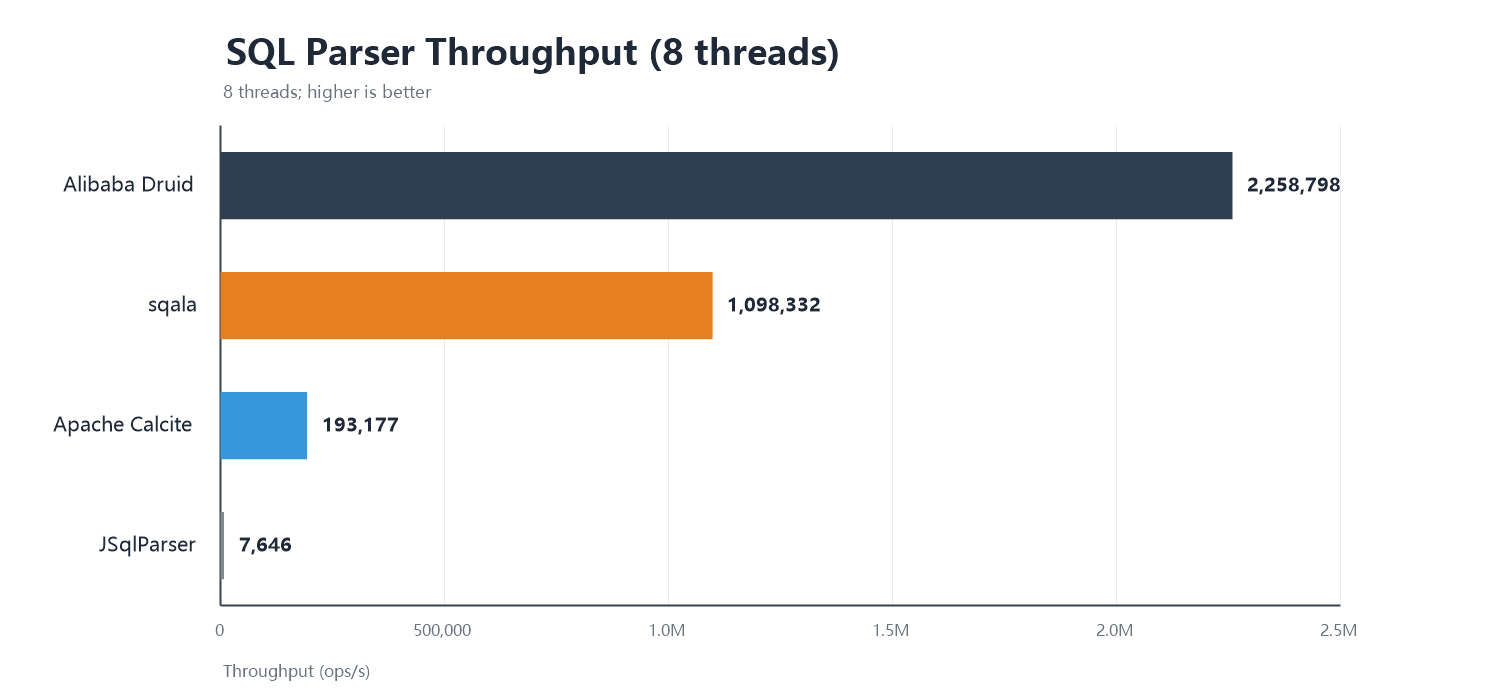
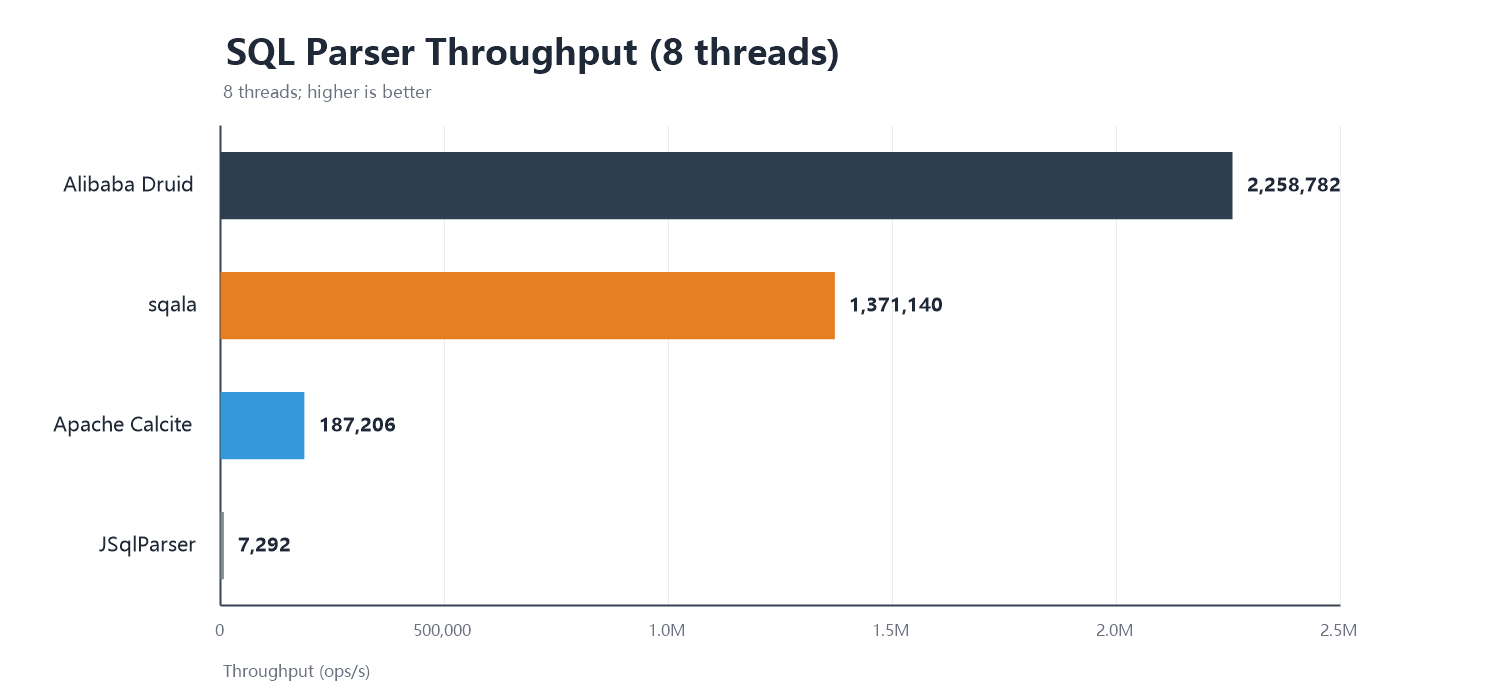
doc

Changed region(s): [[0.46, 0.39, 0.644, 0.51], [0.2147, 0.6, 0.276, 0.63], [0.1533, 0.75, 0.184, 0.81]]

diff --git a/docs/en/benchmark.md b/docs/en/benchmark.md
@@ -70,14 +70,14 @@ Decoding 10,000 rows highlights differences in result-set decoding. sqala reache
 
 | Parser | Throughput (ops/s) | Relative to sqala | 8-thread latency (µs/op) |
 | --- | ---: | ---: | ---: |
-| Alibaba Druid | 2,258,798 | 2.06x | 3.554 |
-| **sqala** | **1,098,332** | **1.00x** | **7.258** |
-| Apache Calcite | 193,177 | 0.18x | 42.819 |
-| JSqlParser | 7,646 | 0.007x | 1,055.507 |
+| Alibaba Druid | 2,258,782 | 1.65x | 3.654 |
+| **sqala** | **1,371,140** | **1.00x** | **6.098** |
+| Apache Calcite | 187,206 | 0.14x | 43.679 |
+| JSqlParser | 7,292 | 0.005x | 1,090.824 |
 
 ![SQL parser throughput](/benchmark/en/05-parser-throughput.png)
 
-Parser results are independent of the database. sqala's hand-written recursive-descent parser reaches about 49% of Druid's throughput but is substantially faster than Calcite and JSqlParser.
+Parser results are independent of the database. sqala's hand-written recursive-descent parser reaches about 61% of Druid's throughput but is substantially faster than Calcite and JSqlParser.
 
 ## Latency Charts
 
@@ -92,7 +92,7 @@ Parser results are independent of the database. sqala's hand-written recursive-d
 - Point query throughput: sqala reaches about 164k ops/s, essentially on par with Hibernate and about 89% of plain JDBC.
 - Range query throughput: sqala reaches about 956 ops/s, or about 9.56 million rows/s, roughly 94% of plain JDBC and clearly ahead of MyBatis, Hibernate, and jOOQ.
 - With 8 threads, point-query scaling is about 5.2–5.6x and range-query scaling is about 6.0–6.8x, already limited by PostgreSQL concurrency.
-- Parser throughput: Druid about 2.26M ops/s, sqala about 1.10M ops/s, Calcite about 193k ops/s, and JSqlParser about 7,600 ops/s.
+- Parser throughput: Druid about 2.26M ops/s, sqala about 1.37M ops/s, Calcite about 187k ops/s, and JSqlParser about 7,300 ops/s.
 - JMH `AverageTime` with multiple threads reports the mean of per-thread average time per operation, not aggregate throughput. Throughput is measured separately with `-bm thrpt -tu s`.
 
 ## Reproducing

diff --git a/docs/zh/benchmark.md b/docs/zh/benchmark.md
@@ -70,14 +70,14 @@
 
 | 解析器 | 吞吐 (ops/s) | 相对 sqala | 8 线程延迟 (µs/op) |
 | --- | ---: | ---: | ---: |
-| Alibaba Druid | 2,258,798 | 2.06x | 3.554 |
-| **sqala** | **1,098,332** | **1.00x** | **7.258** |
-| Apache Calcite | 193,177 | 0.18x | 42.819 |
-| JSqlParser | 7,646 | 0.007x | 1,055.507 |
+| Alibaba Druid | 2,258,782 | 1.65x | 3.654 |
+| **sqala** | **1,371,140** | **1.00x** | **6.098** |
+| Apache Calcite | 187,206 | 0.14x | 43.679 |
+| JSqlParser | 7,292 | 0.005x | 1,090.824 |
 
 ![SQL 解析器吞吐](/benchmark/05-parser-throughput.png)
 
-解析器测试与数据库无关。sqala 的手写递归下降解析器吞吐约为 Druid 的 49%，但明显高于 Calcite 和 JSqlParser。
+解析器测试与数据库无关。sqala 的手写递归下降解析器吞吐约为 Druid 的 61%，但明显高于 Calcite 和 JSqlParser。
 
 ## 延迟图表
 
@@ -92,7 +92,7 @@
 - 点查吞吐：sqala 约 16.4 万 ops/s，与 Hibernate 基本持平，约为纯 JDBC 的 89%。
 - 范围查询吞吐：sqala 约 956 ops/s，即每秒约 956 万行，约为纯 JDBC 的 94%，明显领先 MyBatis、Hibernate 和 jOOQ。
 - 8 线程下点查扩展比约 5.2～5.6 倍，范围查询约 6.0～6.8 倍，已开始受到 PostgreSQL 并发处理能力限制。
-- 解析器吞吐：Druid 约 226 万 ops/s，sqala 约 110 万 ops/s，Calcite 约 19.3 万 ops/s，JSqlParser 约 7,600 ops/s。
+- 解析器吞吐：Druid 约 226 万 ops/s，sqala 约 137 万 ops/s，Calcite 约 18.7 万 ops/s，JSqlParser 约 7,300 ops/s。
 - JMH 的 `AverageTime` 在多线程下报告的是各线程平均每操作耗时的均值，不等同于聚合吞吐；吞吐指标使用 `-bm thrpt -tu s` 单独测量。
 
 ## 复现
